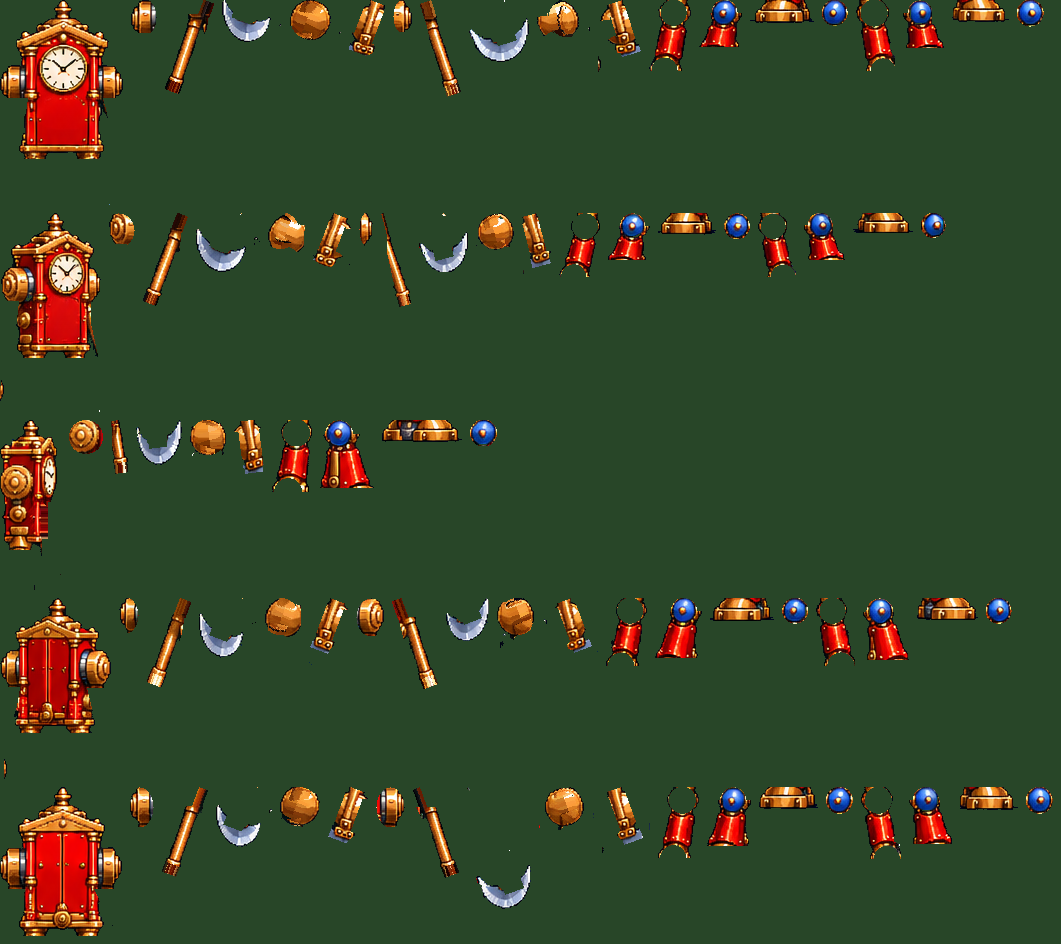
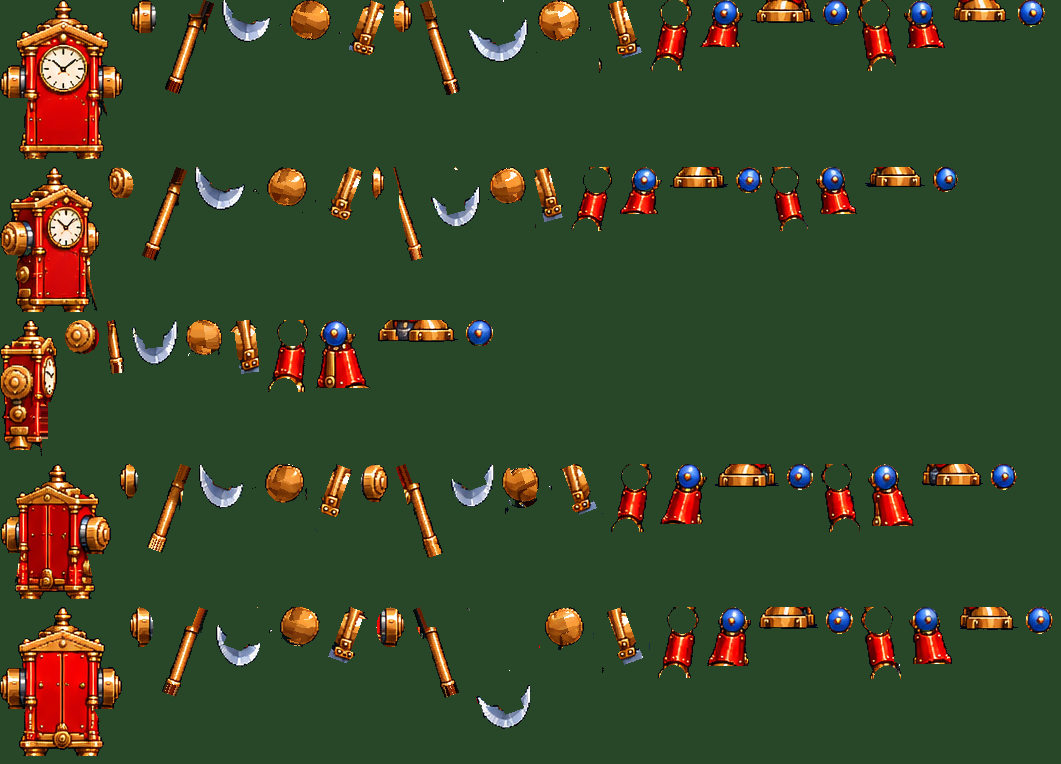
Art: Pendulum v2 idle, walk and two-blow attack in code
tools/pendulum_v2_guide/anim.py: IDLE (4: a slight sway, the arms tick and
tock), WALK (8: the old long stride, the arms swinging in opposition, the arm
opposite a leg forward as it steps; side view near arm in front, far arm
darker behind), ATTACK (12: right arm winds back, strikes forward and up
across the front, follows through while the left winds up, then the left
strikes; hits on frames 4 and 8). Nothing swings between the legs.
Sheets art/redraws/pendulum_v2_{idle,walk,attack}.png with GIFs of the five
facings at game scale x3. Fixed ball centres and polygons for three arms.

Claude-Session: https://claude.ai/code/session_01NtmEZhP1uA8k4DLQ7BYfMz

Changed region(s): [[0.0, 0.0, 0.9953, 0.9935], [0.1244, 0.2107, 0.902, 0.3613], [0.4976, 0.7827, 0.9953, 0.9031]]

diff --git a/tools/pendulum_v2_guide/anim.py b/tools/pendulum_v2_guide/anim.py
@@ -1,0 +1,186 @@
+"""Pendulum v2 IDLE, WALK and ATTACK in code from the painted parts (parts.py) on the rig (rig.py). Nothing hangs or
+swings between the legs: the arms hang outside them, a swung-back weight tucks in behind the hip only where "back" is
+away from us, and from behind it never comes in front of the crotch.
+
+IDLE (4 frames): it stands and sways a little over its feet; the arms tick and tock a few degrees, in opposition.
+WALK (8 frames): the old Pendulum's long stride (rig.py), driven by the arms: they swing in opposition, the arm
+  opposite a leg forward as that leg steps (the left arm forward while the right leg is forward). From the side the
+  near arm swings in front of the body and legs and the far one, darker, behind them; from the front and back a
+  forward arm comes towards us (lower, bigger, in front of its leg), a back arm goes away (higher, smaller, darker,
+  tucked behind the hip).
+ATTACK (12 frames, two blows, tick... tock...): the right arm winds back, swings through low and fast, and strikes
+  forward and up across the front of the body, then follows through while the left arm swings back (its wind-up);
+  the left arm strikes the same way, and both settle. Seen from the side the blow swings forward and up in the picture
+  plane; from the front the blade slashes from its side across the belly to the other side; from behind the weight
+  rises forward beside the shoulder. The body leans into each blow. THE HITS: frames 4 and 8 (0-based 3 and 7).
+
+Out (sheet px; the unit's point, under the case's middle on the ground, at the middle of each cell 10 px above its
+bottom): art/redraws/pendulum_v2_idle.png (rows S, SE, E, NE, N x 4 frames) and pendulum_v2_walk.png (5 x 8), cells
+236 x 302; pendulum_v2_attack.png (5 x 12), cells 320 x 326 (the sizes are worked out from the frames); and a GIF of
+each: the five facings side by side at game scale (GS = 0.28) x 3, the attack's hit frames marked by a red bar.
+  python3 tools/pendulum_v2_guide/anim.py            (... anim.py review DIR: contact sheets for checking)"""
+import math, os, sys
+from PIL import Image, ImageDraw
+sys.path.insert(0, os.path.dirname(os.path.abspath(__file__)))
+import parts as P
+import rig as G
+from rig import foot, dip, SIDE, LEANK, right_leg
+
+N_WALK = 8
+ARM_WALK = 32.0     # the arms' swing while walking (deg either way)
+WALK_REST = 6.0     # side view: the walk swings the arms about a nearly straight hang (the idle hangs them at 18)
+TUCK = 14.0         # a swinging arm turns in a little (deg of yaw at the end of the swing): swung back, its weight
+                    # tucks in behind the hip; swung forward, it comes in front of the leg
+LEAN = 2.5          # the body leans into the walk (side view, deg)
+ROCK = 3.0          # it sways over the standing leg (front view, px)
+ROLL = 1.5          # and tilts with it (deg)
+IDLE_ARM = 3.5      # the idle's tick and tock (deg)
+
+# the attack, per frame: right arm (theta, yaw), left arm (theta, yaw), the body's lean (deg, + forward) and dip (px).
+# A blow is a forward swing that turns in across the front of the body (yaw): seen from the front the blade slashes
+# from the side across the belly; seen from the side the same sweep shows as forward and up (PITCHK turns part of
+# the yaw into more lift where the yaw cannot be seen, SWEEPK keeps the sweep where it can, and from behind keeps it
+# small so the weight is not lost behind the body). An arm swung back tucks in behind the body (negative yaw).
+ATTACK = [
+    ((-35, -8), (12, 0), -1.5, 0),      # 1  the right arm winds back, tucking in behind
+    ((-66, -12), (18, 4), -3.0, 1),     # 2  wound up
+    ((14, 4), (-20, -4), 1.5, 2),       # 3  it swings through, low and fast
+    ((74, 38), (-44, -8), 4.0, 3),      # 4  THE BLOW: forward and in, the blade sweeping the space in front
+    ((86, 62), (-60, -12), 3.0, 2),     # 5  follow-through across the body; the left arm is wound back
+    ((42, 18), (-66, -12), -1.0, 1),    # 6  the right arm falls back; the left one holds
+    ((-16, -4), (14, 4), 1.5, 2),       # 7  the left arm swings through
+    ((-42, -8), (74, 38), 4.0, 3),      # 8  THE BLOW
+    ((-56, -12), (86, 62), 3.0, 2),     # 9  follow-through
+    ((-34, -6), (42, 18), -1.0, 1),     # 10 it falls back
+    ((-14, -2), (18, 4), 0.0, 0),       # 11 settling
+    ((-4, 0), (5, 0), 0.0, 0),          # 12 almost at rest (loops into 1)
+]
+HITS = [3, 7]
+ATTACK_DUR = [130, 130, 60, 130, 100, 110, 70, 130, 100, 110, 120, 120]
+SWEEPK = [1.0, 0.85, 1.0, -0.1, -0.15]  # how much of a blow's sweep across shows, per facing (from behind it turns a
+                                        # little OUT instead, so the weight rises beside the shoulder, not behind it)
+PITCHK = [0.0, 0.1, 0.25, 0.5, 0.6]     # how much of it becomes lift instead
+WINDK = [0.72, 0.72, 1.0, 0.9, 0.9]     # the wind-up's reach per facing: from the front a full wind-up hides behind
+                                        # the shoulder (or juts out sideways in 3/4), so it goes less far there
+TUCKK = [1.0, 1.0, 0.0, 0.0, 0.0]       # a swung-back arm tucks in behind the hip only where "back" is away from us:
+                                        # from behind, back is towards us and a tucked weight would hang in front of
+                                        # the crotch
+STAND = [(0.0, 0.0, 0.0), (0.0, 0.0, 0.0)]
+
+
+def tucked(r, theta):
+    """a walking arm turns in a little at the ends of its swing: swung away from us, in behind the hip; never in front
+    of the crotch"""
+    away = theta < 0 if r in (0, 1) else theta > 0
+    k = (TUCKK[r] if r in (0, 1) else 0.5) if away else (0.4 if r in (0, 1) else 0.0)
+    return TUCK * theta / ARM_WALK * k
+
+
+def walk_pose(r, q):
+    rl = right_leg(r)
+    lp = [None, None]
+    if r == 2:
+        lp = [foot(q), foot(q + 0.5)]
+    else:
+        lp[rl] = foot(q)
+        lp[1 - rl] = foot(q + 0.5)
+    s = math.sin(2 * math.pi * q)
+    c = math.cos(2 * math.pi * q)
+    tr, tl = -ARM_WALK * c, ARM_WALK * c
+    return dict(legs=lp, body=(SIDE[r] * ROCK * s, dip(q), LEAN * LEANK[r] + SIDE[r] * ROLL * s),
+                arms={'right': (tr, tucked(r, tr)), 'left': (tl, tucked(r, tl))}, e_rest=WALK_REST)
+
+
+def idle_pose(r, i):
+    q = i / 4.0
+    s = math.sin(2 * math.pi * q)
+    c = math.cos(2 * math.pi * q)
+    lean = (0.8 * s) if r == 2 else (SIDE[r] * 0.6 * s if SIDE[r] else 0.0)
+    sway = (SIDE[r] if r != 2 else 0.0) * 1.5 * s
+    return dict(legs=STAND, body=(sway, 1.0 * (1 - abs(c)), lean),
+                arms={'right': (IDLE_ARM * s, 0.0), 'left': (-IDLE_ARM * s, 0.0)})
+
+
+def blow(r, th, yw):
+    if th > 0:
+        return th + PITCHK[r] * yw, yw * SWEEPK[r]
+    return th * WINDK[r], yw * TUCKK[r]
+
+
+def attack_pose(r, i):
+    (tr, yr), (tl, yl), lean, d = ATTACK[i]
+    # the lean turns the body in the side views; seen from the front or back it dips a little more instead
+    k = LEANK[r]
+    return dict(legs=STAND, body=(0.0, d + (1 - k) * max(0.0, lean) * 0.5, lean * k),
+                arms={'right': blow(r, tr, yr), 'left': blow(r, tl, yl)})
+
+
+def frames_of(poses):
+    return [[G.compose(r, p) for p in poses(r)] for r in range(5)]
+
+
+def cell_for(*anims):
+    """the smallest cell (sheet px, even sizes) that holds every frame with the unit's point in the middle across and
+    10 px above the bottom"""
+    L = U = 0.0
+    for fr in anims:
+        for r in range(5):
+            ax, ay = G.anchor(r)
+            for cv in fr[r]:
+                x0, y0, x1, y1 = cv.getbbox()
+                L = max(L, ax - (x0 - P.PAD), (x1 - P.PAD) - ax)
+                U = max(U, ay - (y0 - P.PAD))
+    cw = 2 * int(math.ceil(L + 4))
+    ch = int(math.ceil(U + 4)) + (G.CH - G.GROUND)
+    return cw + cw % 2, ch + ch % 2
+
+
+def write(name, fr, cell, durs, marks=None):
+    cw, ch = cell
+    cells = [[G.to_cell(r, cv, cw=cw, ch=ch, ground=ch - (G.CH - G.GROUND)) for cv in fr[r]] for r in range(5)]
+    G.save(name, cells, durs, marks, cw=cw, ch=ch)
+    return cells
+
+
+def all_anims():
+    idle = frames_of(lambda r: [idle_pose(r, i) for i in range(4)])
+    walk = frames_of(lambda r: [walk_pose(r, i / N_WALK) for i in range(N_WALK)])
+    attack = frames_of(lambda r: [attack_pose(r, i) for i in range(12)])
+    c1 = cell_for(idle, walk)
+    c2 = cell_for(attack)
+    print('cells: idle and walk %dx%d, attack %dx%d (sheet px; the unit\'s point at the middle, 10 px up)' % (c1 + c2))
+    return dict(idle=write('pendulum_v2_idle', idle, c1, [220] * 4),
+                walk=write('pendulum_v2_walk', walk, c1, 120),
+                attack=write('pendulum_v2_attack', attack, c2, ATTACK_DUR, HITS))
+
+
+def review(out):
+    """contact sheets for checking: each animation at sheet scale and at game scale x3, frames numbered"""
+    os.makedirs(out, exist_ok=True)
+    A = all_anims()
+    for name, cells in A.items():
+        n = len(cells[0])
+        cw, ch = cells[0][0].size
+        big = Image.new('RGB', (n * cw, 5 * ch), P.NAVY)
+        d = ImageDraw.Draw(big)
+        for r in range(5):
+            for i, c in enumerate(cells[r]):
+                big.paste(c, (i * cw, r * ch), c)
+                d.text((i * cw + 4, r * ch + 4), str(i + 1), fill=(255, 255, 0))
+        big.save('%s/%s_big.png' % (out, name))
+        sm = [[G.shrink(c) for c in row] for row in cells]
+        w, h = sm[0][0].size
+        g = Image.new('RGB', (n * w, 5 * h), P.NAVY)
+        for r in range(5):
+            for i, c in enumerate(sm[r]):
+                g.paste(c, (i * w, r * h), c)
+        g.resize((g.width * 3, g.height * 3), Image.NEAREST).save('%s/%s_game3x.png' % (out, name))
+        g.save('%s/%s_game1x.png' % (out, name))
+
+
+if __name__ == '__main__':
+    if len(sys.argv) > 2 and sys.argv[1] == 'review':
+        review(sys.argv[2])
+    else:
+        all_anims()
+    print('ok')

diff --git a/tools/pendulum_v2_guide/parts.py b/tools/pendulum_v2_guide/parts.py
@@ -54,15 +54,15 @@ ROWS = [
              clamp=(236.5, 225.5, 6.5, 10.0),
              poly=[(255, 112), (281, 112), (279, 126), (270, 150), (265, 170), (266, 200), (264, 222), (262, 232),
                    (262, 254), (204, 254), (204, 200), (222, 180), (236, 160), (250, 125)]),
-        dict(side='R', robot='left', pivot=(371, 96), hub=(371, 96, 13, 19), ball=(399.5, 199.5, 19.5),
+        dict(side='R', robot='left', pivot=(371, 96), hub=(371, 96, 13, 19), ball=(390.0, 200.0, 19.0),
              clamp=(396.5, 226.0, 6.5, 10.0),
              poly=[(357, 112), (384, 112), (392, 125), (402, 160), (412, 178), (426, 200), (426, 254), (367, 254),
                    (367, 214), (370, 190), (366, 160), (361, 126)])]),
     dict(box=(203, 302, 422, 582), mid=326.0, arms=[
-        dict(side='L', robot='right', pivot=(275, 383), hub=(276, 384, 16, 17), ball=(242.0, 482.0, 18.5),
-             clamp=(246.0, 507.5, 6.0, 9.5),
-             poly=[(259, 398), (284, 398), (281, 425), (272, 445), (266, 465), (265, 500), (265, 537), (214, 537),
-                   (214, 488), (222, 465), (240, 440), (253, 410)]),
+        dict(side='L', robot='right', pivot=(275, 383), hub=(276, 384, 16, 17), ball=(250.0, 484.0, 18.5),
+             clamp=(246.0, 505.0, 6.0, 9.5),
+             poly=[(259, 398), (284, 398), (281, 425), (274, 445), (271, 462), (271, 505), (268, 512), (268, 537),
+                   (214, 537), (214, 488), (222, 465), (240, 440), (253, 410)]),
         dict(side='R', robot='left', pivot=(362, 381), hub=(362, 382, 9, 18), ball=(379.0, 484.0, 17.5),
              clamp=(389.0, 506.0, 6.0, 9.5),
              poly=[(357, 399), (373, 399), (385, 430), (398, 458), (403, 468), (414, 488), (414, 534), (368, 534),
@@ -73,10 +73,10 @@ ROWS = [
              poly=[(328, 664), (343, 664), (342, 700), (345, 736), (358, 738), (368, 752), (372, 802), (320, 802),
                    (320, 762), (321, 740), (328, 736), (328, 700)])]),
     dict(box=(203, 859, 426, 1148), mid=318.0, arms=[
-        dict(side='L', robot='left', pivot=(266, 938), hub=(266, 938, 15, 19), ball=(245.0, 1037.0, 18.5),
-             clamp=(242.0, 1062.0, 6.0, 9.5),
-             poly=[(253, 956), (281, 956), (278, 975), (268, 1005), (265, 1030), (265, 1060), (262, 1066),
-                   (262, 1086), (214, 1086), (214, 1040), (225, 1012), (240, 990), (250, 970)]),
+        dict(side='L', robot='left', pivot=(266, 938), hub=(266, 938, 15, 19), ball=(250.5, 1038.0, 18.0),
+             clamp=(244.0, 1056.0, 6.0, 9.5),
+             poly=[(253, 956), (281, 956), (278, 975), (271, 1005), (271, 1056), (266, 1060), (264, 1068),
+                   (264, 1086), (214, 1086), (214, 1040), (225, 1012), (240, 990), (250, 970)]),
         dict(side='R', robot='right', pivot=(360, 937), hub=(360, 938, 15, 19), ball=(384.0, 1038.0, 18.5),
              clamp=(390.0, 1061.0, 6.0, 9.5),
              poly=[(349, 957), (376, 957), (386, 980), (398, 1008), (408, 1025), (414, 1040), (414, 1086), (368, 1086),
@@ -328,14 +328,14 @@ def cut_arm(F, FM, arm, org):
         sol = np.linalg.lstsq(Am, fx * fx + fy * fy, rcond=None)[0]
         cx_, cy_ = sol[0], sol[1]
         r_ = math.sqrt(max(1.0, sol[2] + cx_ * cx_ + cy_ * cy_))
-        if math.hypot(cx_ - bx, cy_ - by) < 4 and abs(r_ - br) < 4:
+        if math.hypot(cx_ - bx, cy_ - by) < 6 and abs(r_ - br) < 4:
             bx, by, br = float(cx_), float(cy_), float(r_)
             rr = np.hypot(xx - bx, yy - by)
             disc = rr <= br
             C = np.array([bx, by])
             tC = float((C - T) @ u)
     ballrgb = fill_ball(F, ball_vis, disc, (bx, by))
-    ball_m = ball_vis | (disc & front)            # the strip the sleeve and the clamp hid, filled
+    ball_m = ball_vis | (disc & m)                # whatever hid it (the sleeve, the clamp, a blade's horn), filled
     t_split = tC - br - 4.0
     rod = front & (t < t_split)
     head = front & (t >= t_split)
@@ -471,6 +471,10 @@ def cut_row(r):
         arms.append(dict(cfg=arm, lay=lay, geo=geo, hub=padded(rgba(F, hubm)), mask=m,
                          pivot=(arm['pivot'][0] - x0, arm['pivot'][1] - y0)))
     body = FM & ~cut
+    lab, n = ndi.label(body)                     # loose slivers an arm's cut left behind (a ball's edge, an outline)
+    if n > 1:
+        sz = ndi.sum(body, lab, range(1, n + 1))
+        body &= np.isin(lab, [i + 1 for i, v in enumerate(sz) if v >= 300])
     if r == 2:
         # the side view: the knuckle the painted arm hung from sat on the case's front edge: fill the case there
         # (to the case's own edge, x <= 333 on the sheet) from the case's paint, with a dark outline at the edge
